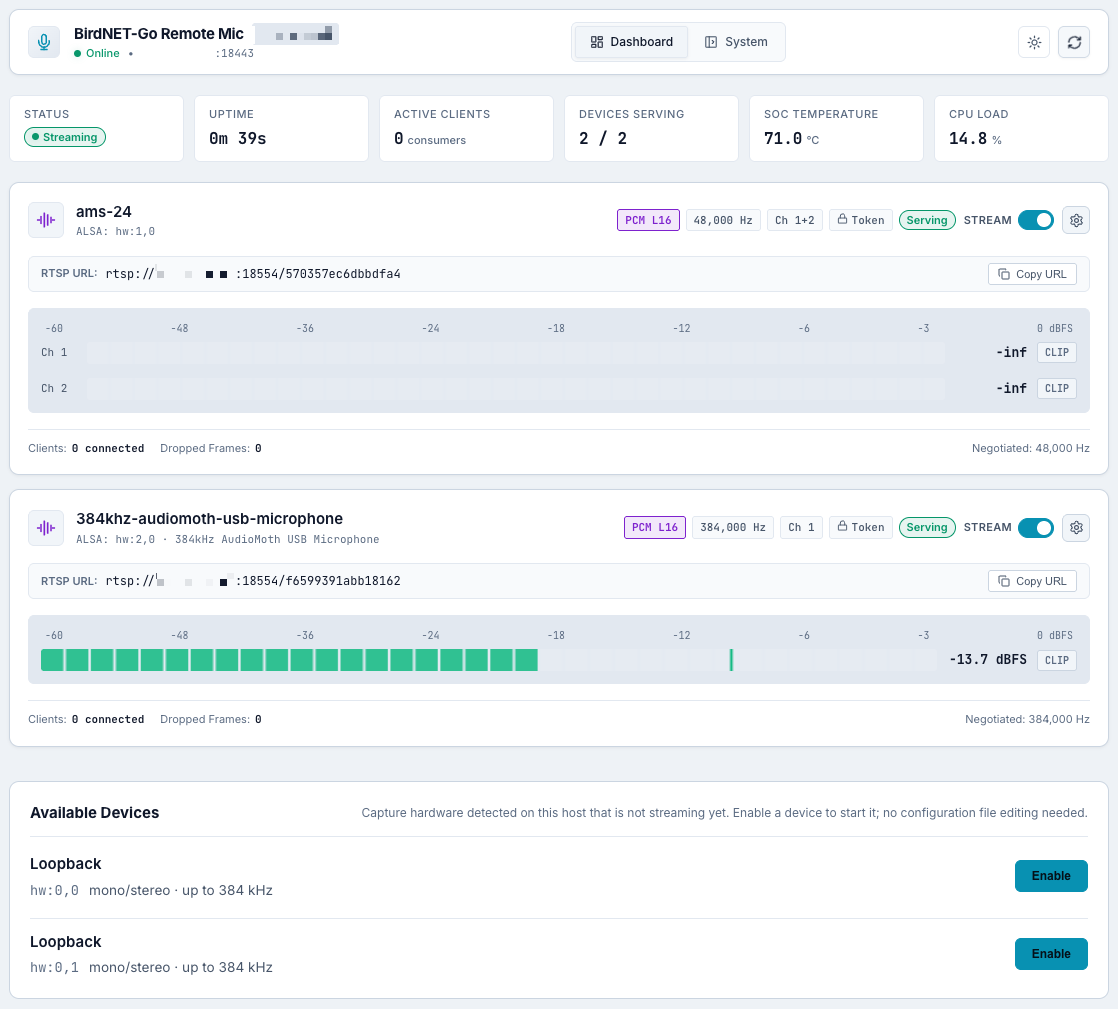
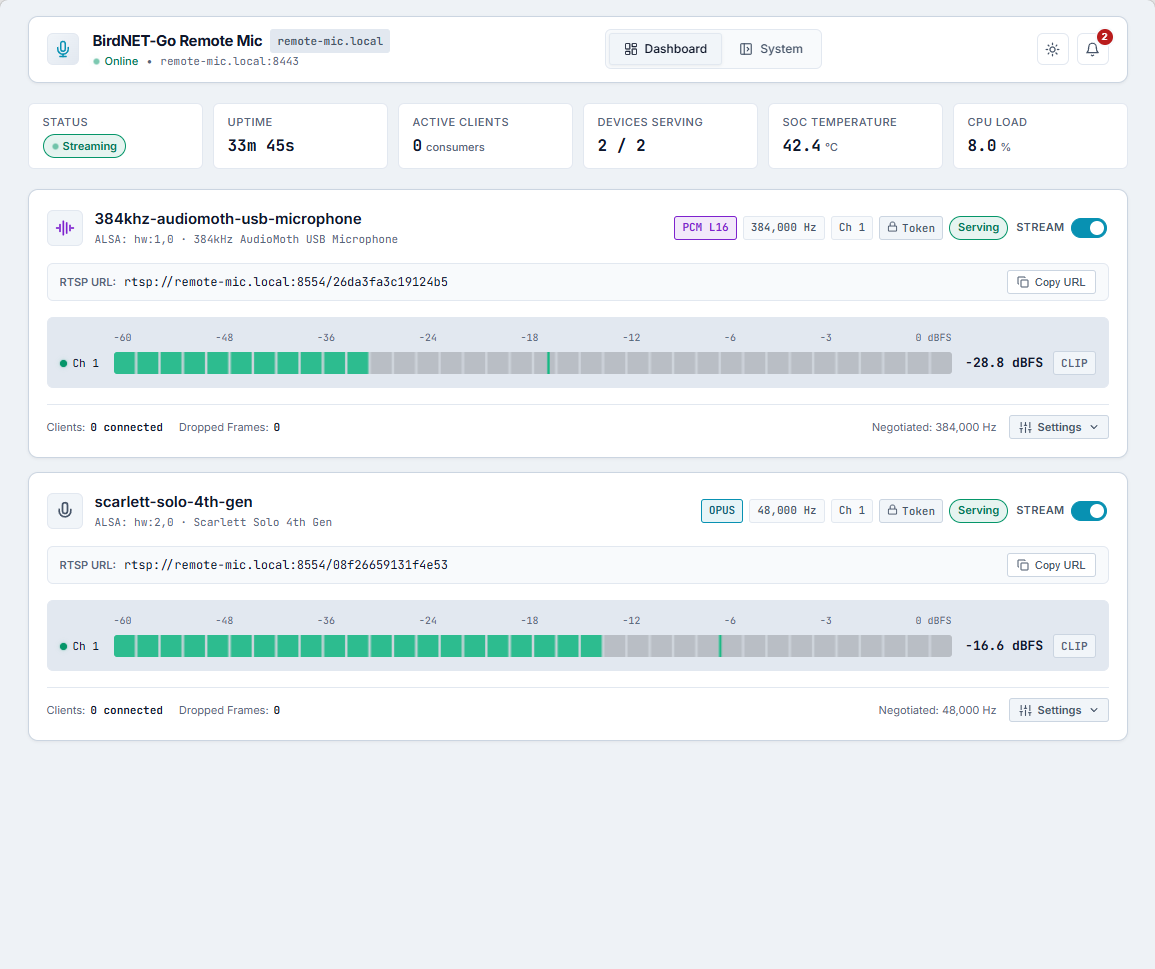
docs: reframe README, add install instructions, refresh screenshots
Lead with what the appliance is: one standalone pure-Go binary that
captures local audio, encodes it (Opus or ultrasonic PCM), and publishes
it as an RTSP stream BirdNET-Go discovers over mDNS.

Add an Install section covering the new release channels (Homebrew, .deb,
tarball, build-from-source), noting prebuilt releases are amd64/arm64 and
32-bit Pi builds from source. Replace the single dashboard screenshot with
current dashboard and System views. Drop the stale Status section (packaging
is done) and move the capabilities summary up.

diff --git a/README.md b/README.md
@@ -1,4 +1,4 @@
-# birdnet-go-remote-mic
+# BirdNET-Go Remote Mic
 
 [![CI](https://github.com/tphakala/birdnet-go-remote-mic/actions/workflows/ci.yml/badge.svg)](https://github.com/tphakala/birdnet-go-remote-mic/actions/workflows/ci.yml)
 [![codecov](https://codecov.io/gh/tphakala/birdnet-go-remote-mic/branch/main/graph/badge.svg)](https://codecov.io/gh/tphakala/birdnet-go-remote-mic)
@@ -7,38 +7,106 @@
 [![License: MIT](https://img.shields.io/badge/License-MIT-blue.svg)](LICENSE)
 [![Sponsor](https://img.shields.io/github/sponsors/tphakala?logo=githubsponsors&color=ea4aaa&label=Sponsor)](https://github.com/sponsors/tphakala)
 
-A small, pure-Go remote microphone appliance for [BirdNET-Go](https://github.com/tphakala/birdnet-go).
+**A standalone network microphone for [BirdNET-Go](https://github.com/tphakala/birdnet-go).**
+One pure-Go binary does the whole job: it captures audio from local capture
+hardware, encodes it (Opus for birdsong, raw PCM for ultrasonic recording), and
+publishes it as a standard RTSP/RTP stream on your LAN. BirdNET-Go discovers it
+automatically over mDNS and pulls the stream with its native ingest client.
 
-Runs as a single static binary on a Raspberry Pi Zero 2 W (arm64) or an older
-32-bit Pi (arm), captures local audio, and streams it over the LAN as standard
-RTSP/RTP.
-BirdNET-Go discovers the mic automatically over mDNS and pulls the stream with
-its native ingest client. No ffmpeg, no third-party media server, no external
-processes: just one binary you control.
+There is nothing else to run: no ffmpeg, no separate media server, no glue
+scripts. Install the binary, enable a capture device from the built-in web UI,
+and BirdNET-Go starts listening. It is happy on a Raspberry Pi Zero 2 W (arm64)
+or an older 32-bit Pi (arm), the same class of hardware BirdNET-Go itself runs
+on.
+
+![The BirdNET-Go Remote Mic dashboard: live per-channel level meters, per-device stream state, and copy-ready RTSP URLs](assets/dashboard.png)
+
+## What it does
+
+- **Captures** audio from any number of local devices (USB or I2S) with no
+  transcoding glue, one binary per host serving one RTSP stream per device.
+- **Encodes** for two jobs over one protocol:
+  - *Normal audio* uses Opus at 48 kHz, mono or stereo, low bandwidth for
+    ordinary birdsong.
+  - *Ultrasonic* uses raw PCM (L16) at high sample rates (up to 256 or 384 kHz)
+    for bat detection, where no lossy codec can carry the signal. On a LAN the
+    uncompressed bandwidth is a non-issue (~4 Mbit/s at 256 kHz mono).
+- **Streams** over a self-implemented RTSP/RTP server, TCP-interleaved by
+  default so the audio arrives lossless and firewall-friendly. ffmpeg, VLC, and
+  BirdNET-Go's own ingest client all play it.
+- **Announces itself** on the LAN over mDNS / DNS-SD, with a manual host:port
+  fallback for networks where multicast does not cross.
+- **Manages itself** through a built-in HTTPS web UI: enable devices, watch live
+  levels, copy RTSP URLs, and set an access token, with no config-file editing.
+
+## Install
+
+Prebuilt releases for Linux **amd64** and **arm64** are on the
+[releases page](https://github.com/tphakala/birdnet-go-remote-mic/releases).
+Every method below installs the same `remote-mic` binary; pick whichever suits
+the host.
+
+### Homebrew (Linux)
+
+```sh
+brew install tphakala/tap/birdnet-go-remote-mic
+```
+
+Upgrade later with `brew upgrade birdnet-go-remote-mic`.
+
+### Debian, Ubuntu, Raspberry Pi OS (.deb)
+
+Download the `.deb` for your architecture from the
+[latest release](https://github.com/tphakala/birdnet-go-remote-mic/releases/latest)
+and install it:
+
+```sh
+sudo apt install ./birdnet-go-remote-mic_*_linux_arm64.deb   # or _amd64
+```
+
+The package installs `/usr/bin/remote-mic` and starts nothing on its own. Set up
+the service when you are ready (see [Run at boot](#run-at-boot-systemd-service)).
+
+### Tarball
+
+Download the `.tar.gz` for your architecture, unpack it, and put the binary on
+your PATH:
+
+```sh
+tar xzf birdnet-go-remote-mic_*_linux_arm64.tar.gz
+sudo install -m 0755 remote-mic /usr/local/bin/remote-mic
+```
+
+### Build from source
+
+Requires Go (version in `go.mod`) and Node (for the web UI). The 32-bit
+Raspberry Pi target (`arm`) has no prebuilt release, so build it here:
+
+```sh
+git clone https://github.com/tphakala/birdnet-go-remote-mic
+cd birdnet-go-remote-mic
+task build:arm64     # or build:amd64, or build:arm for 32-bit Pis
+# the binary lands in bin/remote-mic-<arch>
+```
+
+Once the binary is installed, [run it at boot](#run-at-boot-systemd-service)
+with `sudo remote-mic service install`, then open the web UI and enable a
+device.
 
 ## Web UI
 
-![BirdNET-Go Remote Mic dashboard](assets/dashboard.png)
+A built-in HTTPS management UI (default `:8443`) runs alongside the streams. The
+**Dashboard** (shown above) lists every capture device with live per-channel
+level meters, stream state, negotiated rate and channel count, the RTSP URL with
+one-click copy, and dropped-frame counters. Its **Available Devices** list
+enumerates capture hardware on the host that is not streaming yet, so you enable
+a device straight from the browser with no config-file editing.
 
-A built-in HTTPS management UI (default `:8443`) shows every capture device at a
-glance: live per-channel level meters, stream state, negotiated rate and channel
-count, the RTSP URL with one-click copy, and dropped-frame counters. The
-**Available Devices** list enumerates capture hardware found on the host that is
-not streaming yet, so you enable a device straight from the browser with no
-config-file editing. The **System** tab covers host information and the Access
-Control card for setting or rotating the shared access token.
+![The System tab: host telemetry, per-device stream status, and network and discovery settings](assets/system.png)
 
-## Status
-
-The capture and streaming core is implemented: capture (via
-[go-audio-capture](https://github.com/tphakala/go-audio-capture)), the L16 and
-Opus pipeline, a TCP-interleaved RTSP server that ffmpeg, VLC, and BirdNET-Go's
-own ingest client can play, and mDNS/DNS-SD advertisement so BirdNET-Go can
-discover the mic automatically. On top of that, an HTTPS management API and web
-UI provision and reconfigure devices with in-place hot reload, per-device audio
-level metering streams over SSE, and an optional shared access token gates both
-the API and the RTSP stream. Packaging (phase 6) is still to come. The normative
-design and roadmap live as issues in a separate location.
+The **System** tab covers host information (platform, CPU, memory, temperature,
+disk), per-device stream status, the network and discovery settings, and the
+Access Control card for setting or rotating the shared access token.
 
 ## Discovery
 
@@ -335,20 +403,9 @@ and `task build` work from a clean checkout. A bare `go build ./...` or
 first, or pass `-tags skipfrontend` to compile the Go code against a stub UI
 (what the CI Go jobs do).
 
-## What it does
-
-- **Captures** audio from any number of local devices (USB or I2S) with no
-  transcoding glue, one binary per host serving one RTSP stream per device.
-- **Streams** over a self-implemented RTSP/RTP server, TCP-interleaved by
-  default so the audio arrives lossless and firewall-friendly.
-- **Two modes over one protocol:**
-  - *Normal audio* uses Opus at 48 kHz, mono or stereo, low bandwidth for
-    ordinary birdsong.
-  - *Ultrasonic* uses raw PCM (L16) at high sample rates (up to 256 or 384 kHz)
-    for bat detection, where no lossy codec can carry the signal. On a LAN the
-    uncompressed bandwidth is a non-issue (~4 Mbit/s at 256 kHz mono).
-- **Announces itself** on the LAN over mDNS / DNS-SD, with a manual host:port
-  fallback for networks where multicast does not cross.
+Tagged releases (`v*`) are built by GoReleaser (`.goreleaser.yaml`): Linux
+amd64/arm64 tarballs and `.deb` packages, plus the Homebrew formula pushed to
+[tphakala/homebrew-tap](https://github.com/tphakala/homebrew-tap).
 
 ## Design principles
 
